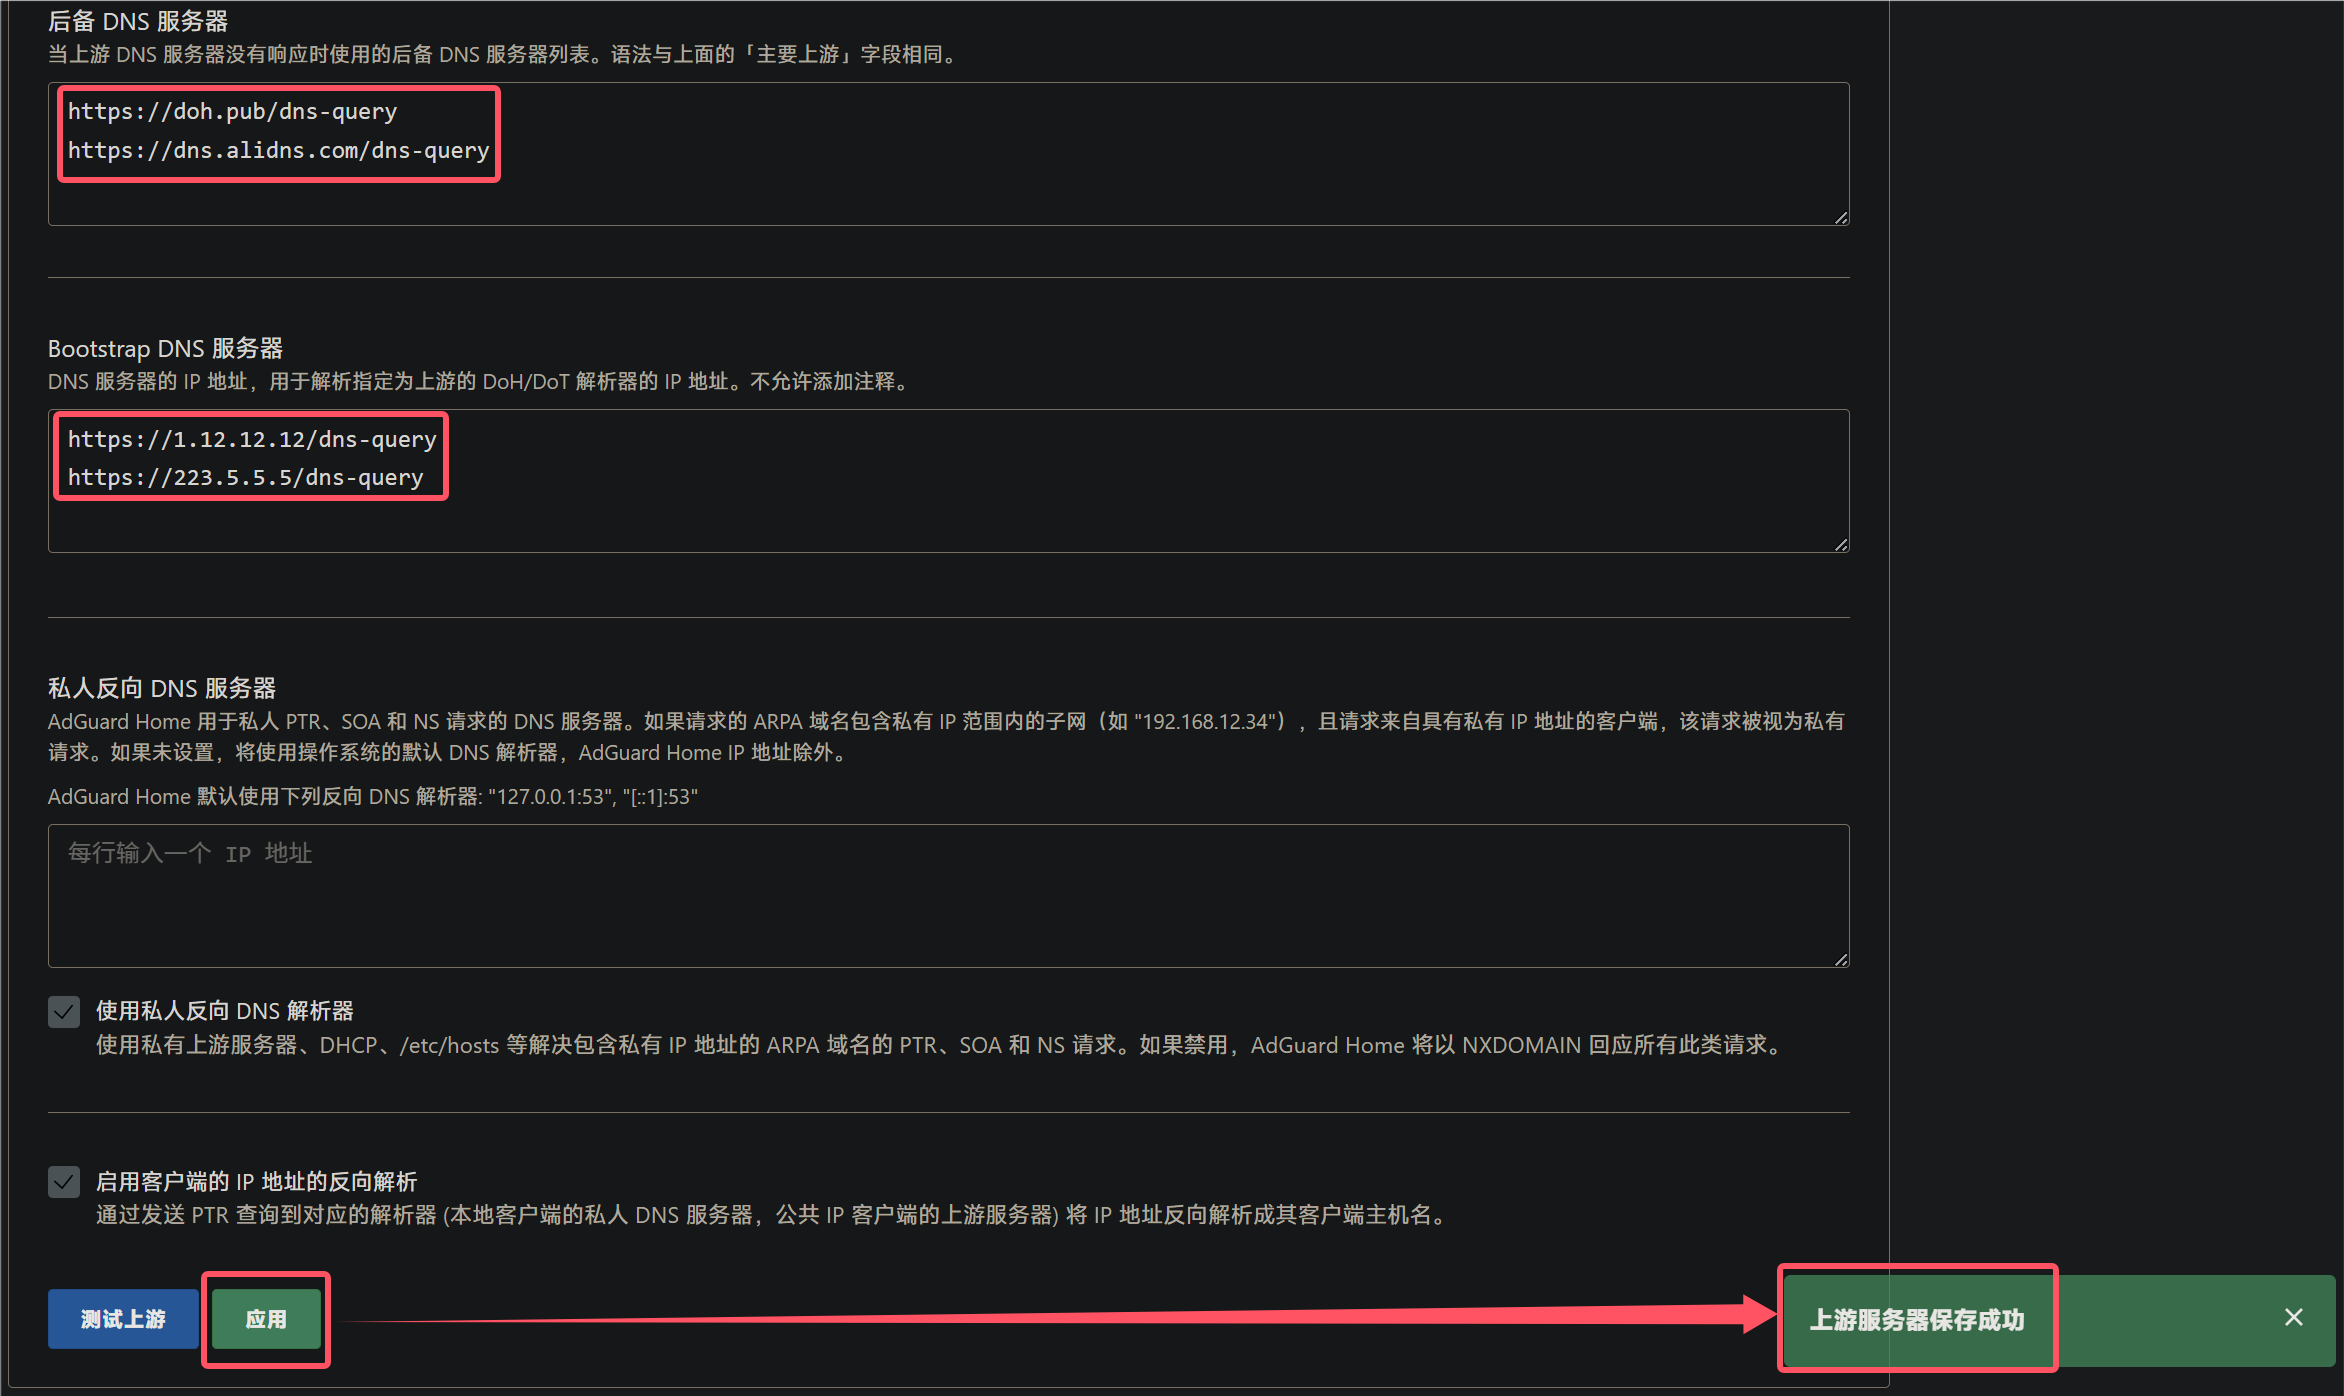
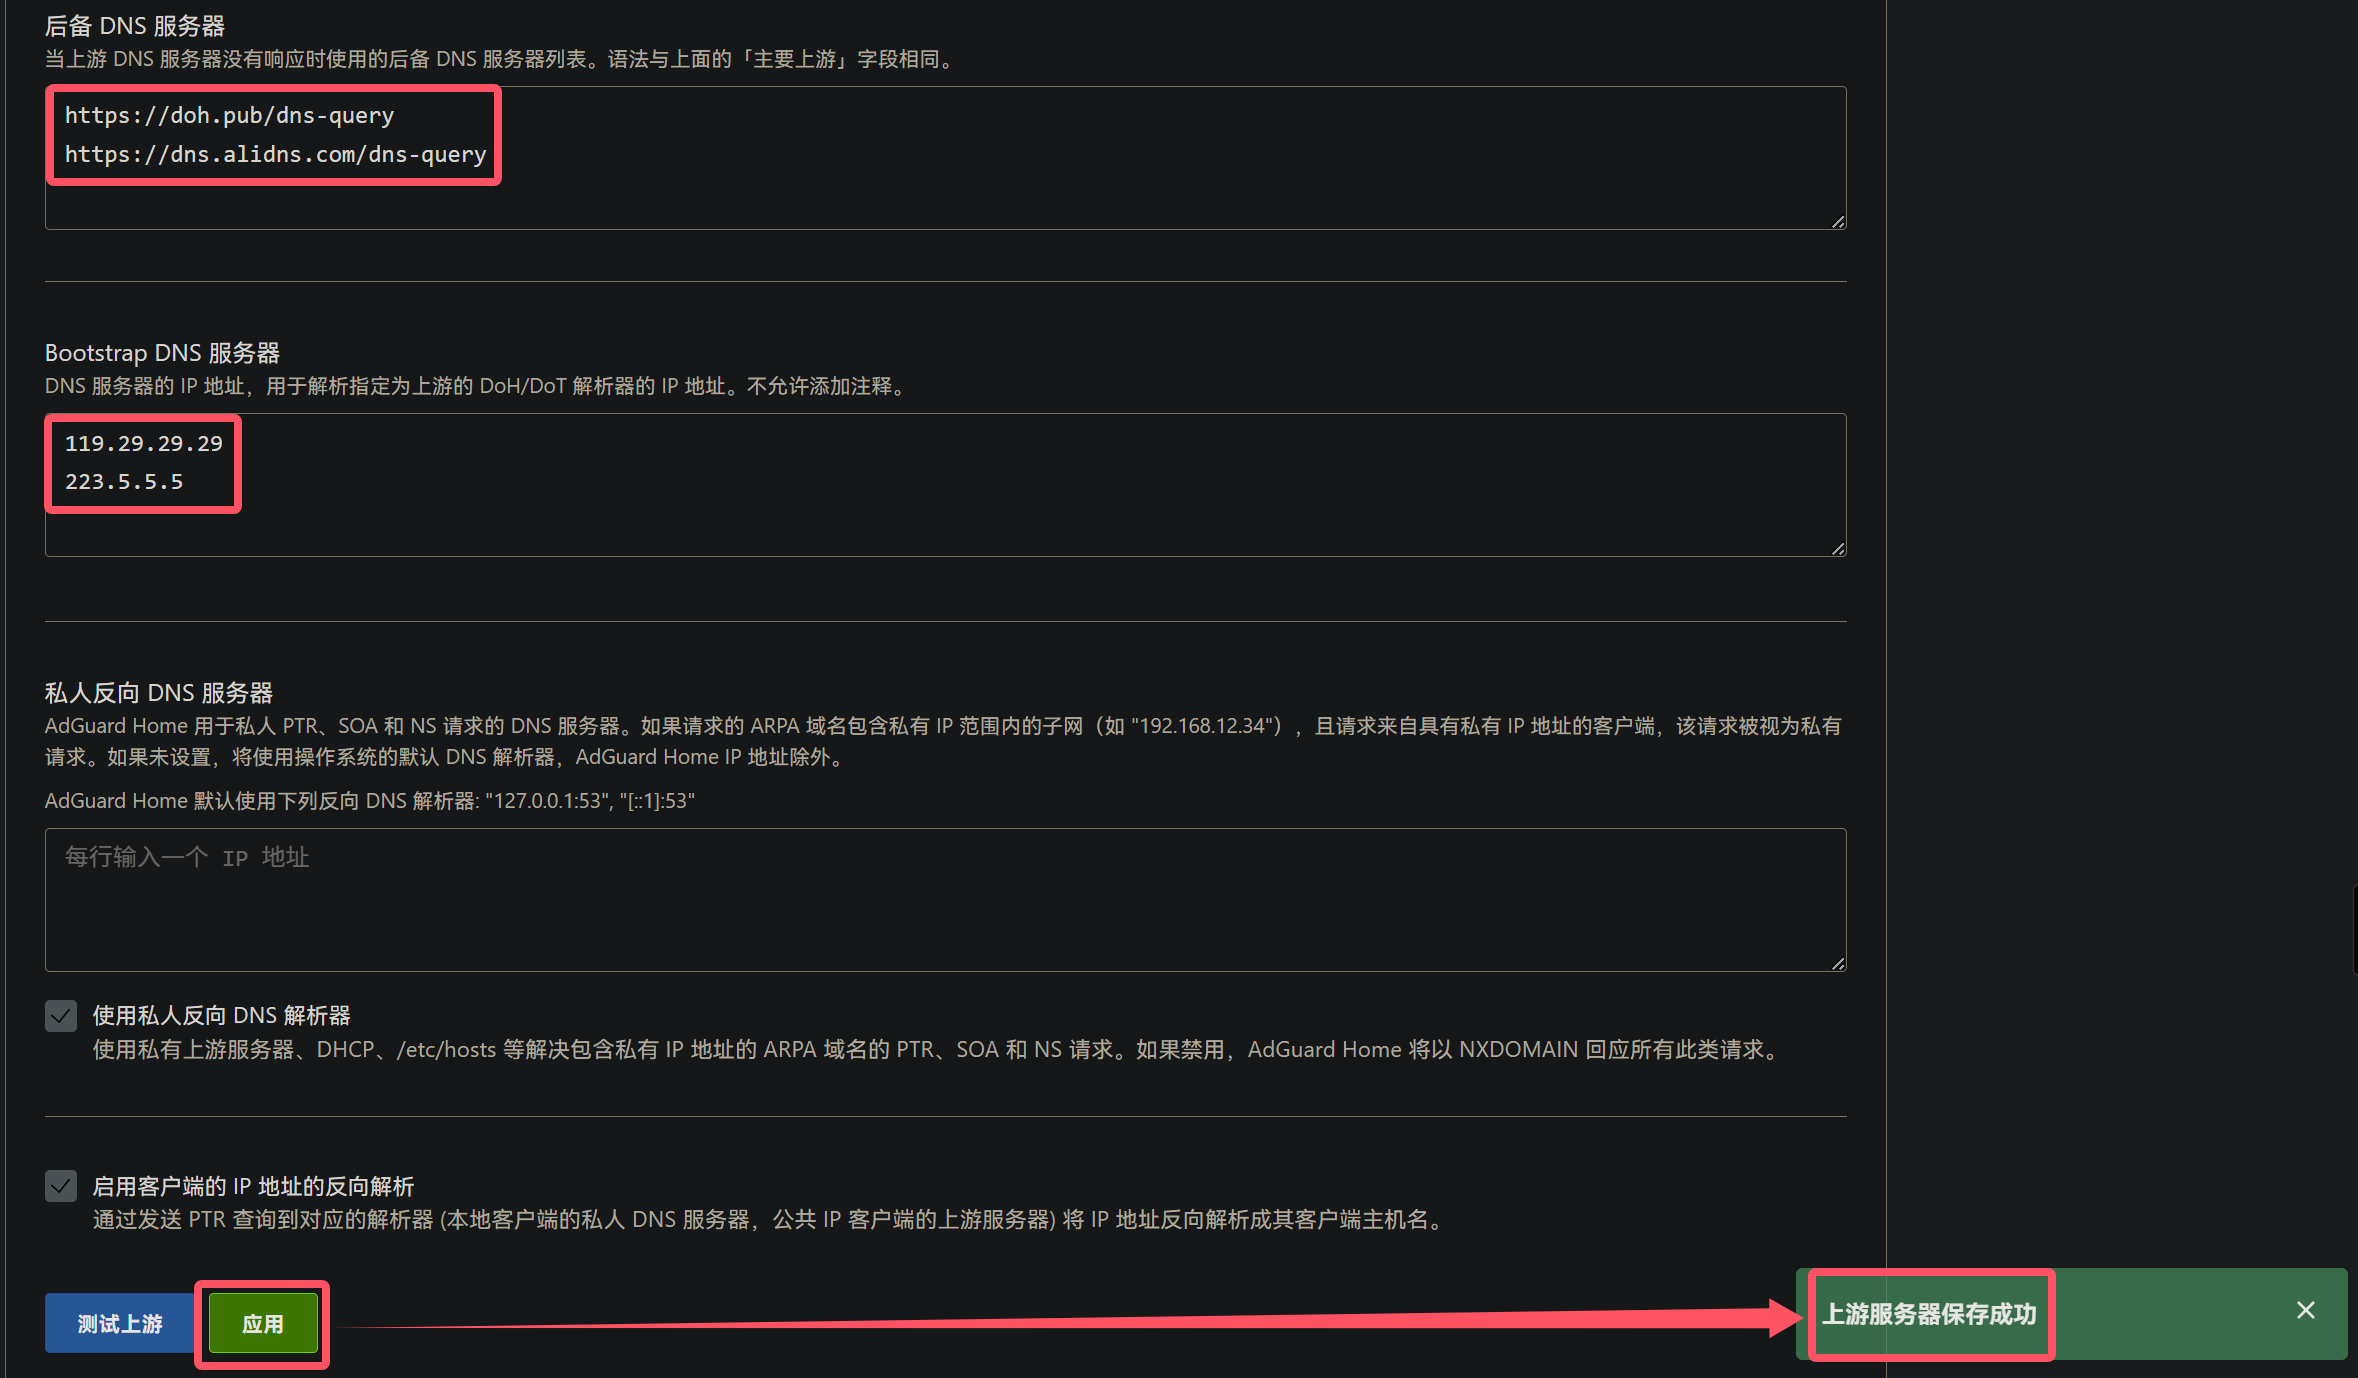
微调 AdGuard Home DNS 配置

diff --git a/_posts/2024-08-21-pin-shellcrashadguardhome-mihomo.md b/_posts/2024-08-21-pin-shellcrashadguardhome-mihomo.md
@@ -394,8 +394,8 @@ echo -e '12345678\n12345678' | passwd root
   “Bootstrap DNS 服务器”设置为：
 
   ```text
-  https://1.12.12.12/dns-query
-  https://223.5.5.5/dns-query
+  119.29.29.29
+  223.5.5.5
   ```
 
   直接点击“应用”即可  

diff --git a/_posts/2024-08-21-pin-shellcrashadguardhome-singbox.md b/_posts/2024-08-21-pin-shellcrashadguardhome-singbox.md
@@ -393,8 +393,8 @@ echo -e '12345678\n12345678' | passwd root
   “Bootstrap DNS 服务器”设置为：
 
   ```text
-  https://1.12.12.12/dns-query
-  https://223.5.5.5/dns-query
+  119.29.29.29
+  223.5.5.5
   ```
 
   直接点击“应用”即可  
